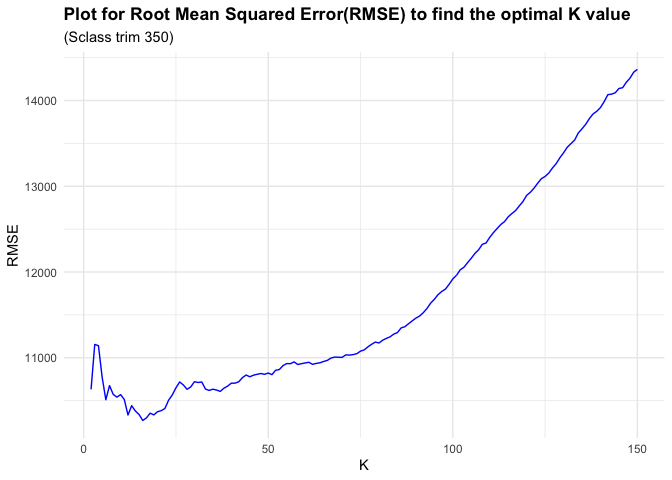
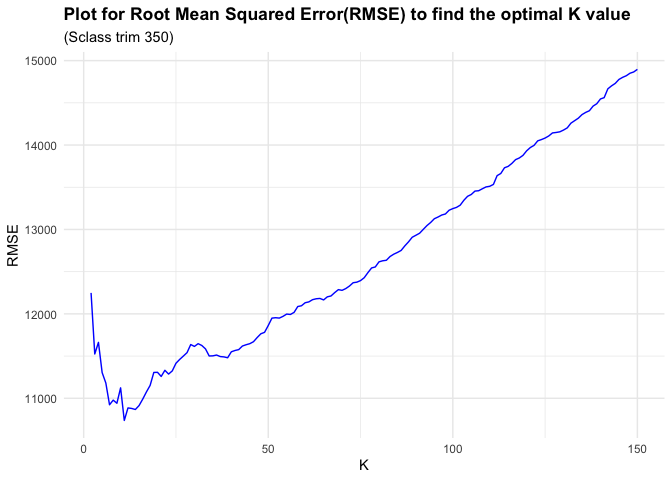
updates to rmd file

diff --git a/Exercise 1/ECO-395M-exercise-1.md b/Exercise 1/ECO-395M-exercise-1.md
@@ -36,8 +36,22 @@ flight delays.
 
 #### A) What is 95th percentile of heights for female competitiors across Athletics events?
 
-    ## 95% 
-    ## 183
+<table>
+<thead>
+<tr class="header">
+<th style="text-align: left;"></th>
+<th style="text-align: left;">quantile</th>
+<th style="text-align: right;">height</th>
+</tr>
+</thead>
+<tbody>
+<tr class="odd">
+<td style="text-align: left;"></td>
+<td style="text-align: left;">95%</td>
+<td style="text-align: right;">183</td>
+</tr>
+</tbody>
+</table>
 
 95th percentile of heights for female competitors across Athletcis
 events is 183cm.
@@ -95,11 +109,11 @@ optimal value of K
 
 **Optimal value of K**
 
-    ## [1] 16
+    ## [1] 11
 
 **RMSE from the Optimal value of K**
 
-    ## [1] 10268.88
+    ## [1] 10737.34
 
 ![](ECO-395M-exercise-1_files/figure-markdown_strict/problem%203_1.4-1.png)
 
@@ -116,11 +130,11 @@ optimal value of K
 
 **Optimal value of K**
 
-    ## [1] 73
+    ## [1] 9
 
 **RMSE from the Optimal value of K**
 
-    ## [1] 18330.38
+    ## [1] 22179.64
 
 ![](ECO-395M-exercise-1_files/figure-markdown_strict/problem%203_2.4-1.png)
 
